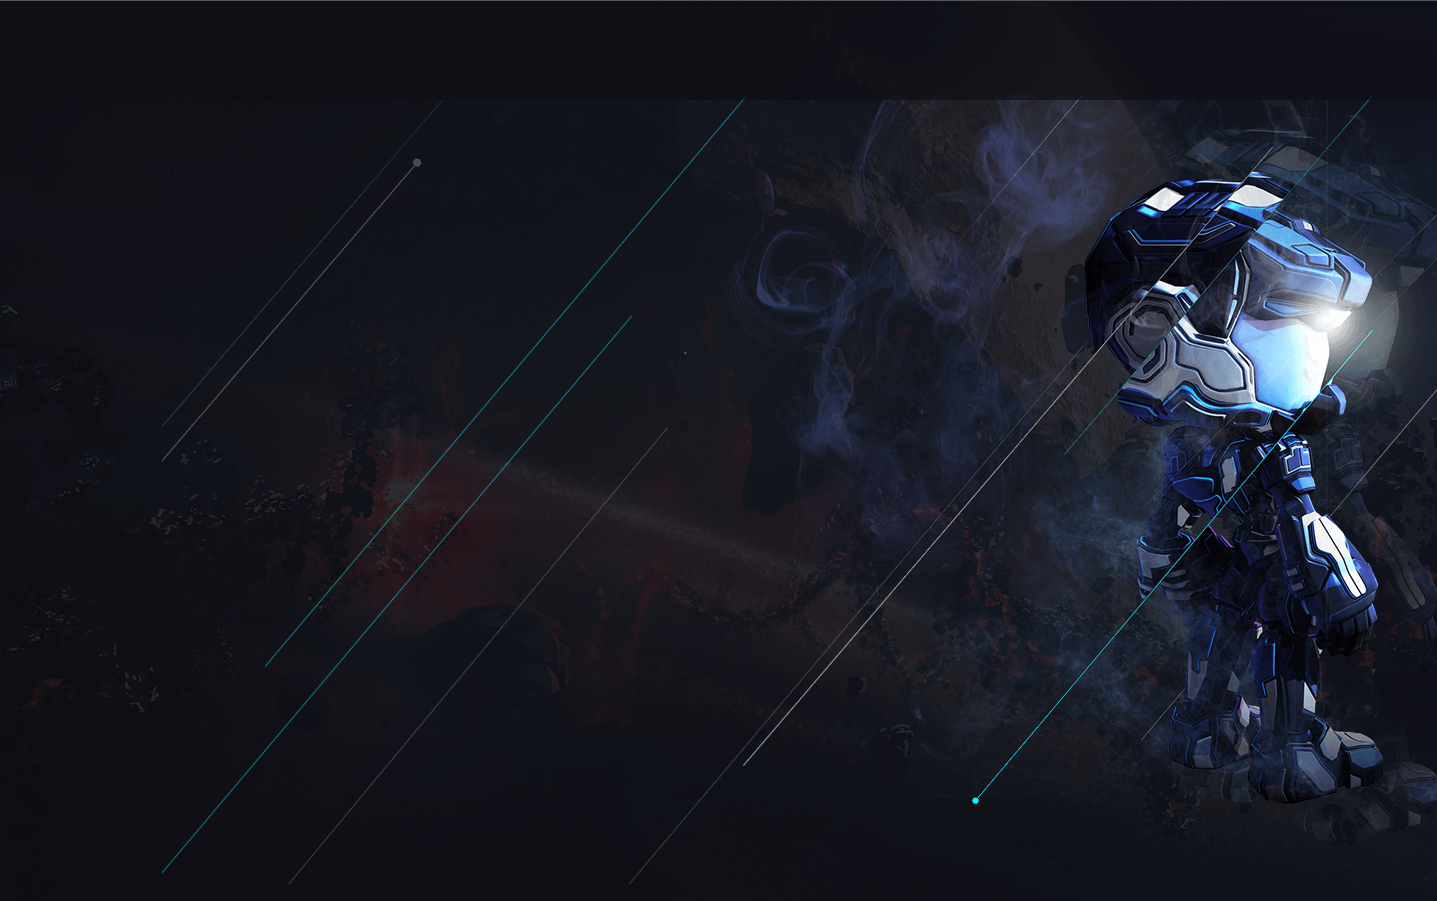
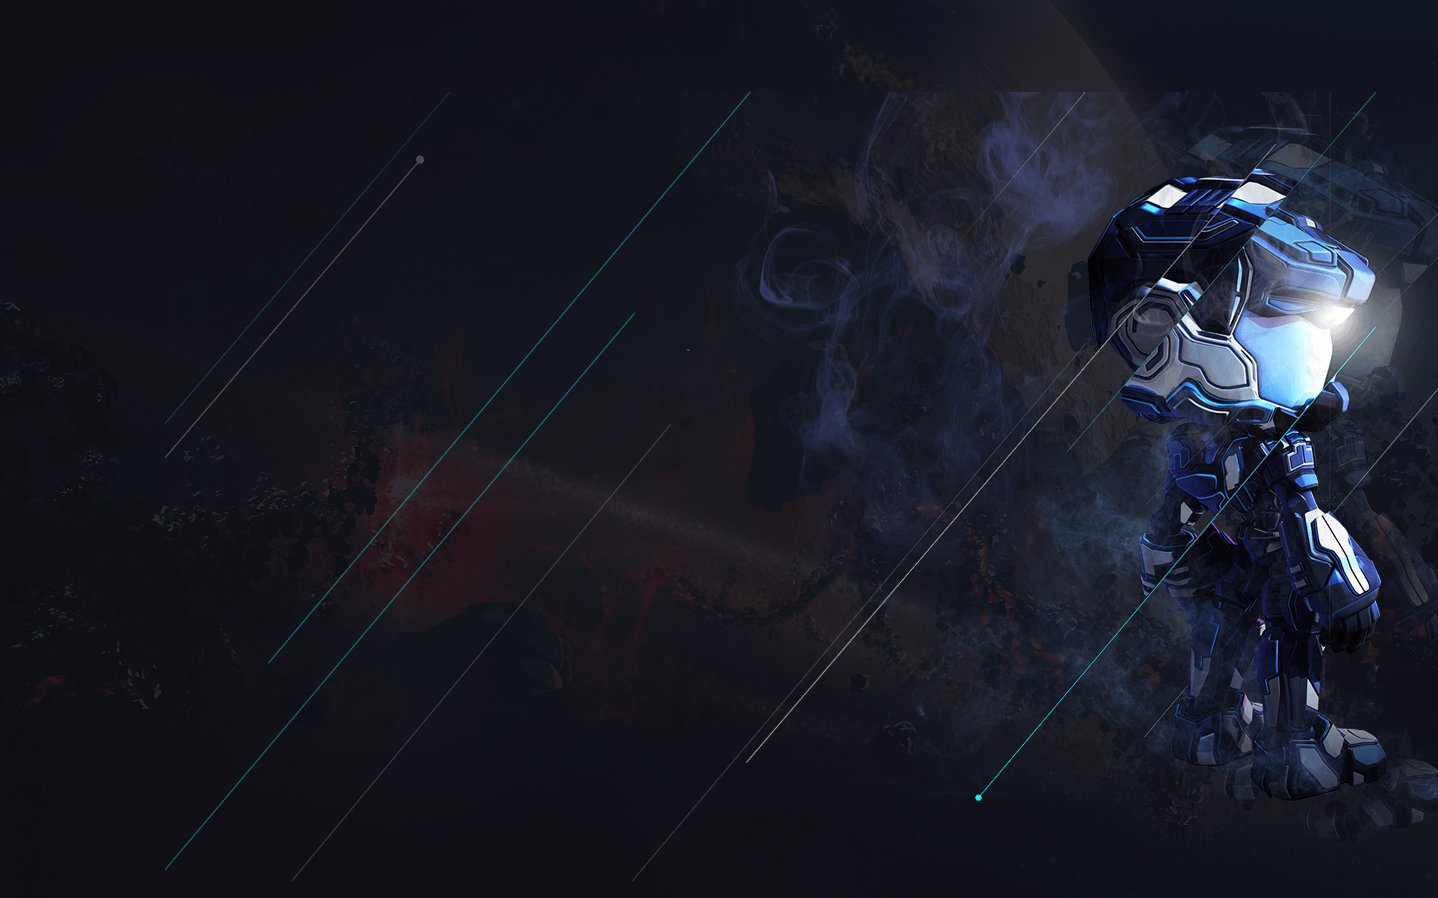
image added

diff --git a/index.html b/index.html
@@ -11,28 +11,27 @@
 			<!-----------header---------------------->
 		<header>
            <div class="container">
-           	<div class="flex_container">
-				<div class="logo">
-					<a href="images/logo.png" target="_blank"><img src="images/logo.png" alt="logo"></a>
-					<a href="images/messenger.png" target="_blank"><img src="images/messenger.png" alt="messenger_image"></a>
-					<a href="images/talk.png" target="_blank"><img src="images/talk.png" alt="talk_image"></a>
-				</div>
-				 <nav>
-					<ul class="nav_list">
-						<li><a href="#">home</a></li>
-						<li><a href="#">what is bingo?</a></li>
-						<li><a href="#">features</a></li>
-						<li><a href="#">team</a></li>
-						<li><a href="#">portfolio</a></li>
-						<li><a href="#">road map</a></li>
-						<li><a href="#">whitepaper</a></li>
-						<li><a href="#">blog</a></li>
-                   </ul>
-				</nav>
+           		<div class="header">
+					<div class="logo">
+						<a href="images/logo.png" target="_blank"><img src="images/logo.png" alt="logo"></a>
+						<a href="images/messenger.png" target="_blank"><img src="images/messenger.png" alt="messenger_image"></a>
+						<a href="images/talk.png" target="_blank"><img src="images/talk.png" alt="talk_image"></a>
+				  </div>
+				   <nav>
+						<ul class="nav_list">
+							<li><a href="#">home</a></li>
+							<li><a href="#">what is bingo?</a></li>
+							<li><a href="#">features</a></li>
+							<li><a href="#">team</a></li>
+							<li><a href="#">portfolio</a></li>
+							<li><a href="#">road map</a></li>
+							<li><a href="#">whitepaper</a></li>
+							<li><a href="#">blog</a></li>
+                   		</ul>
+					</nav>
+           	   </div>
 			</div>
-				<section></section>
-			</div>
-		</header>
+	 </header>
 		    <!-------------------banner-------------->
 		
 			<!------------social media---------------->

diff --git a/css/styles.css b/css/styles.css
@@ -17,17 +17,18 @@
 }
    /*----------------header-------------------*/
   header{
-   	background-color:#0f0f15;
-   	padding:35px 0 30px 0;
-
-   	}
+   	/*background-color:#0f0f15;*/
+   	/*padding:35px 0 30px 0;*/
+   	background-image:url(../images/base.png);
+   	background-size:cover;
+   }
    a{
    	text-decoration: none;
    }
    li{
    	list-style-type:none;
    }
-   .flex_container{
+   .header{
    	display:flex;
    	justify-content:space-between;
    	align-items:center;
@@ -55,7 +56,8 @@
   	color:#2e677c;
   	background-color:#e45646;
   	}
-
+  	/*--------------------------header-------------------------------*/
+  	/*---------------------------banner-------------------------------*/
 
 
  
